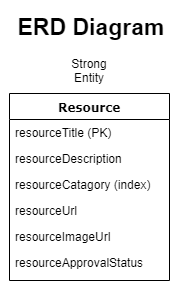
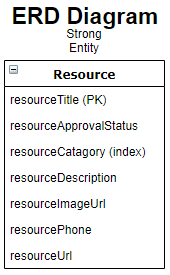
updated ERD and concept model for added phone attribute

Changed region(s): [[0.0, 0.0, 0.9706, 0.9891]]

diff --git a/documentation/conceptual-model.html b/documentation/conceptual-model.html
@@ -9,11 +9,12 @@
 	<ul>
 		<li><strong>Resource</strong></li>
 		<li>resourceTitle (Primary Key)</li>
-		<li>resourceDescription</li>
-		<li>resourceCategory (index)</li>
-		<li>resourceUrl</li>
-		<li>resourceImageUrl</li>
 		<li>resourceApprovalStatus</li>
+		<li>resourceCategory (index)</li>
+		<li>resourceDescription</li>
+		<li>resourceImageUrl</li>
+		<li>resourcePhone</li>
+		<li>resourceUrl</li>
 	</ul>
 <h2>Relations</h2>
 <p>There are no relations</p>
